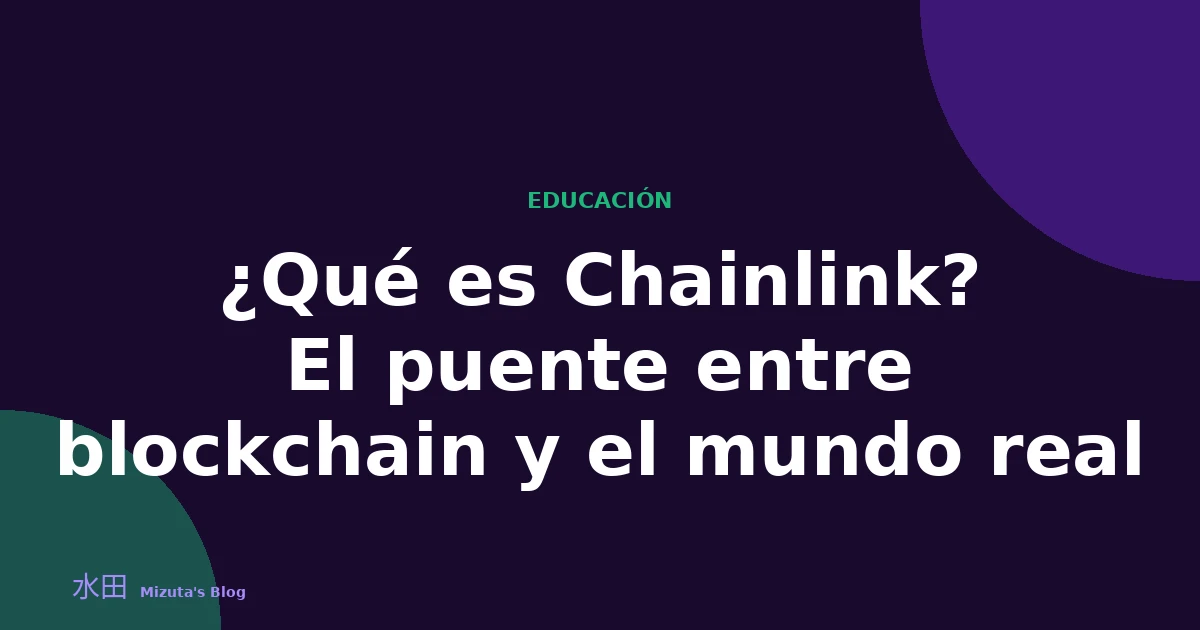
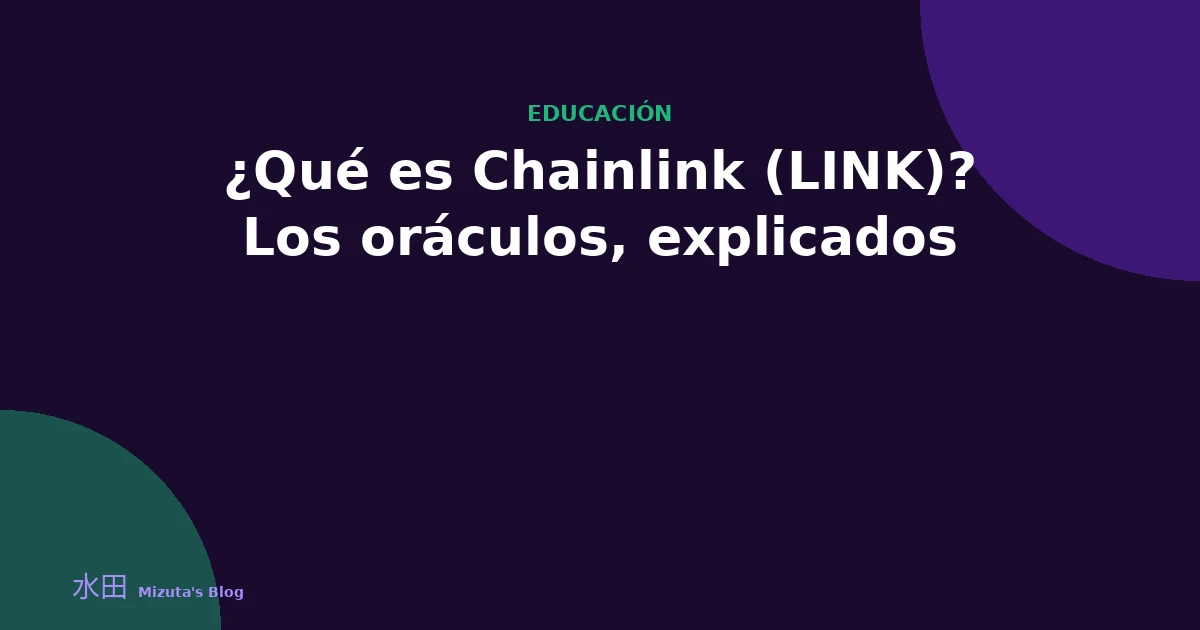
Fix: actualizar «¿Qué es Chainlink?» a las convenciones actuales
Sin precio de LINK, aviso de afiliado tras <!--more-->, sección de compra y custodia, riesgos, sin CTA de comentarios, enlace a Pyth y miniatura con el título nuevo más arriba.

Claude-Session: https://claude.ai/code/session_011yp9UXujg84CfhVZ6jMWoZ

diff --git a/_posts/2026-06-01-que-es-chainlink.md b/_posts/2026-06-01-que-es-chainlink.md
@@ -1,16 +1,19 @@
 ---
 layout: post
-title: "¿Qué es Chainlink? El puente entre blockchain y el mundo real"
-date: 2026-06-01 08:00:00 +0200
+title: "¿Qué es Chainlink (LINK)? Los oráculos, explicados"
+date: 2026-06-01 06:00:00 +0200
 categories: [educacion]
 tags: [chainlink, link, oracles, contratos-inteligentes, defi, altcoins]
-description: "Descubre qué es Chainlink, cómo funcionan sus oráculos descentralizados y por qué el token LINK es una pieza clave del ecosistema DeFi y Web3."
+description: "Qué es Chainlink: el problema del oráculo, cómo sus nodos verifican datos en 5 pasos, para qué sirve el token LINK, CCIP y qué riesgos tiene."
 image: /assets/images/que-es-chainlink.webp
+author: Yukio Mizuta
 ---
 
-¿Alguna vez te preguntaste cómo sabe un contrato inteligente el resultado de un partido de fútbol o el precio del dólar en tiempo real? La respuesta tiene nombre propio: **Chainlink**. En este artículo te explicamos qué es, cómo funciona y por qué es una de las piezas más importantes del ecosistema cripto.
+¿Alguna vez te preguntaste cómo sabe un contrato inteligente el resultado de un partido de fútbol o el precio del dólar en tiempo real? La respuesta tiene nombre propio: **Chainlink**. En este artículo te explicamos qué es, cómo funciona y por qué es una de las piezas más importantes del ecosistema cripto, estés en España, Europa o Latinoamérica.
 
 <!--more-->
+
+> **Aviso de afiliado:** Este artículo contiene enlaces de afiliado a Kraken, Trezor y Keystone. Si abres una cuenta o compras a través de ellos, recibimos una pequeña comisión sin coste adicional para ti. Esto nos ayuda a mantener el blog. Gracias por tu apoyo. 🙏
 
 ## El problema que Chainlink resuelve
 
@@ -61,21 +64,29 @@ LINK es la criptomoneda nativa de Chainlink, basada en el estándar ERC-20 de Et
 
 Este mecanismo crea un incentivo económico directo para que los nodos actúen de forma correcta.
 
-A día de hoy, LINK cotiza alrededor de los **$9–$10 USD**, con una capitalización de mercado de varios miles de millones de dólares, situándose entre las principales criptomonedas del ecosistema.
-
 ## ¿Por qué importa Chainlink?
 
 La visión de Chainlink va más allá de conectar blockchains con APIs. Su objetivo es convertirse en la capa de datos estándar para la economía digital, conectando contratos inteligentes con bancos, gobiernos, bolsas de valores y cualquier sistema de datos del mundo real.
 
 En un sentido muy real, Chainlink no compite con Ethereum o Bitcoin: los complementa. Mientras las blockchains garantizan que las transacciones sean transparentes e inmutables, Chainlink garantiza que los datos que activan esas transacciones sean fiables.
 
-Sin Chainlink (o proyectos similares), la mayoría de aplicaciones DeFi, seguros o contratos automatizados que conocemos hoy no existirían.
+Sin Chainlink (o proyectos similares), la mayoría de aplicaciones DeFi, seguros o contratos automatizados que conocemos hoy no existirían. Su gran rival es [Pyth Network](/2026/11/23/que-es-pyth-network-pyth/), un oráculo que recibe los precios directamente de exchanges y firmas de trading.
 
-## ¿Cómo comprar LINK?
+## ¿Cómo comprar y guardar LINK?
 
-LINK está disponible en los principales exchanges del mercado. Si ya tienes cuenta en Kraken, puedes comprarlo directamente en la plataforma de forma sencilla y segura.
+LINK está disponible en los principales exchanges, entre ellos [Kraken](https://invite.kraken.com/JDNW/nmlddl67), donde puedes comprarlo con euros por transferencia SEPA desde España y Europa, o con dólares y otros métodos desde Latinoamérica (la disponibilidad varía según el país).
 
-👉 **¿No tienes cuenta en Kraken todavía?** Regístrate usando [nuestro enlace de afiliado](https://invite.kraken.com/JDNW/nmlddl67) y empieza a operar con criptomonedas desde España, Europa o Latinoamérica.
+Como es un token ERC-20, se guarda en cualquier wallet compatible con Ethereum (direcciones que empiezan por `0x`), y necesitarás un poco de ETH para pagar las comisiones al moverlo. Para cantidades a largo plazo, lo más seguro es una wallet de hardware como [Trezor](https://affil.trezor.io/SH13Y) o [Keystone](https://keyst.one/?rfsn=6408359.378bf2&utm_source=refersion&utm_medium=affiliate&utm_campaign=6408359.378bf2).
+
+## Riesgos a considerar
+
+- **Dependencia de los operadores de nodo:** la red es tan fiable como los nodos que la forman. La agregación y el colateral reducen el riesgo de datos manipulados, pero no lo eliminan.
+- **Competencia:** otros oráculos, como Pyth Network, compiten por los mismos protocolos.
+- **Complejidad:** CCIP y los servicios entre cadenas añaden piezas técnicas que pueden fallar.
+- **Regulación:** las reglas para criptoactivos siguen cambiando, tanto en Europa (MiCA) como en Latinoamérica.
+- **Volatilidad:** como cualquier criptomoneda, LINK puede subir y bajar con mucha fuerza.
+
+> ⚠ *Este post es únicamente educativo y no constituye asesoramiento financiero. Siempre haz tu propia investigación antes de invertir.*
 
 ---
 
@@ -85,10 +96,8 @@ Chainlink resuelve uno de los problemas fundamentales del ecosistema blockchain:
 
 Si te interesa el mundo DeFi, los contratos inteligentes o la infraestructura cripto, Chainlink es un proyecto que vale la pena entender. No es solo una criptomoneda, es una pieza clave de la nueva internet financiera.
 
-¿Tienes dudas sobre Chainlink o cómo funciona? Comparte este artículo con alguien que esté empezando en el mundo cripto. 🔗
-
 ---
 
-*Este artículo es solo informativo y no constituye asesoramiento financiero. Invertir en criptomonedas conlleva riesgos; haz siempre tu propia investigación antes de tomar decisiones de inversión.*
+*Aviso de afiliado: este artículo contiene enlaces de afiliado a Kraken, Trezor y Keystone. Si usas estos enlaces, recibimos una pequeña comisión sin coste adicional para ti. Solo recomendamos servicios que consideramos de calidad.*
 
-*Este post contiene enlaces de afiliado. Si te registras en Kraken a través de nuestro enlace, podemos recibir una comisión sin coste adicional para ti.*
+*Este contenido es meramente informativo y no constituye asesoramiento financiero. Invertir en criptomonedas conlleva riesgos.*
